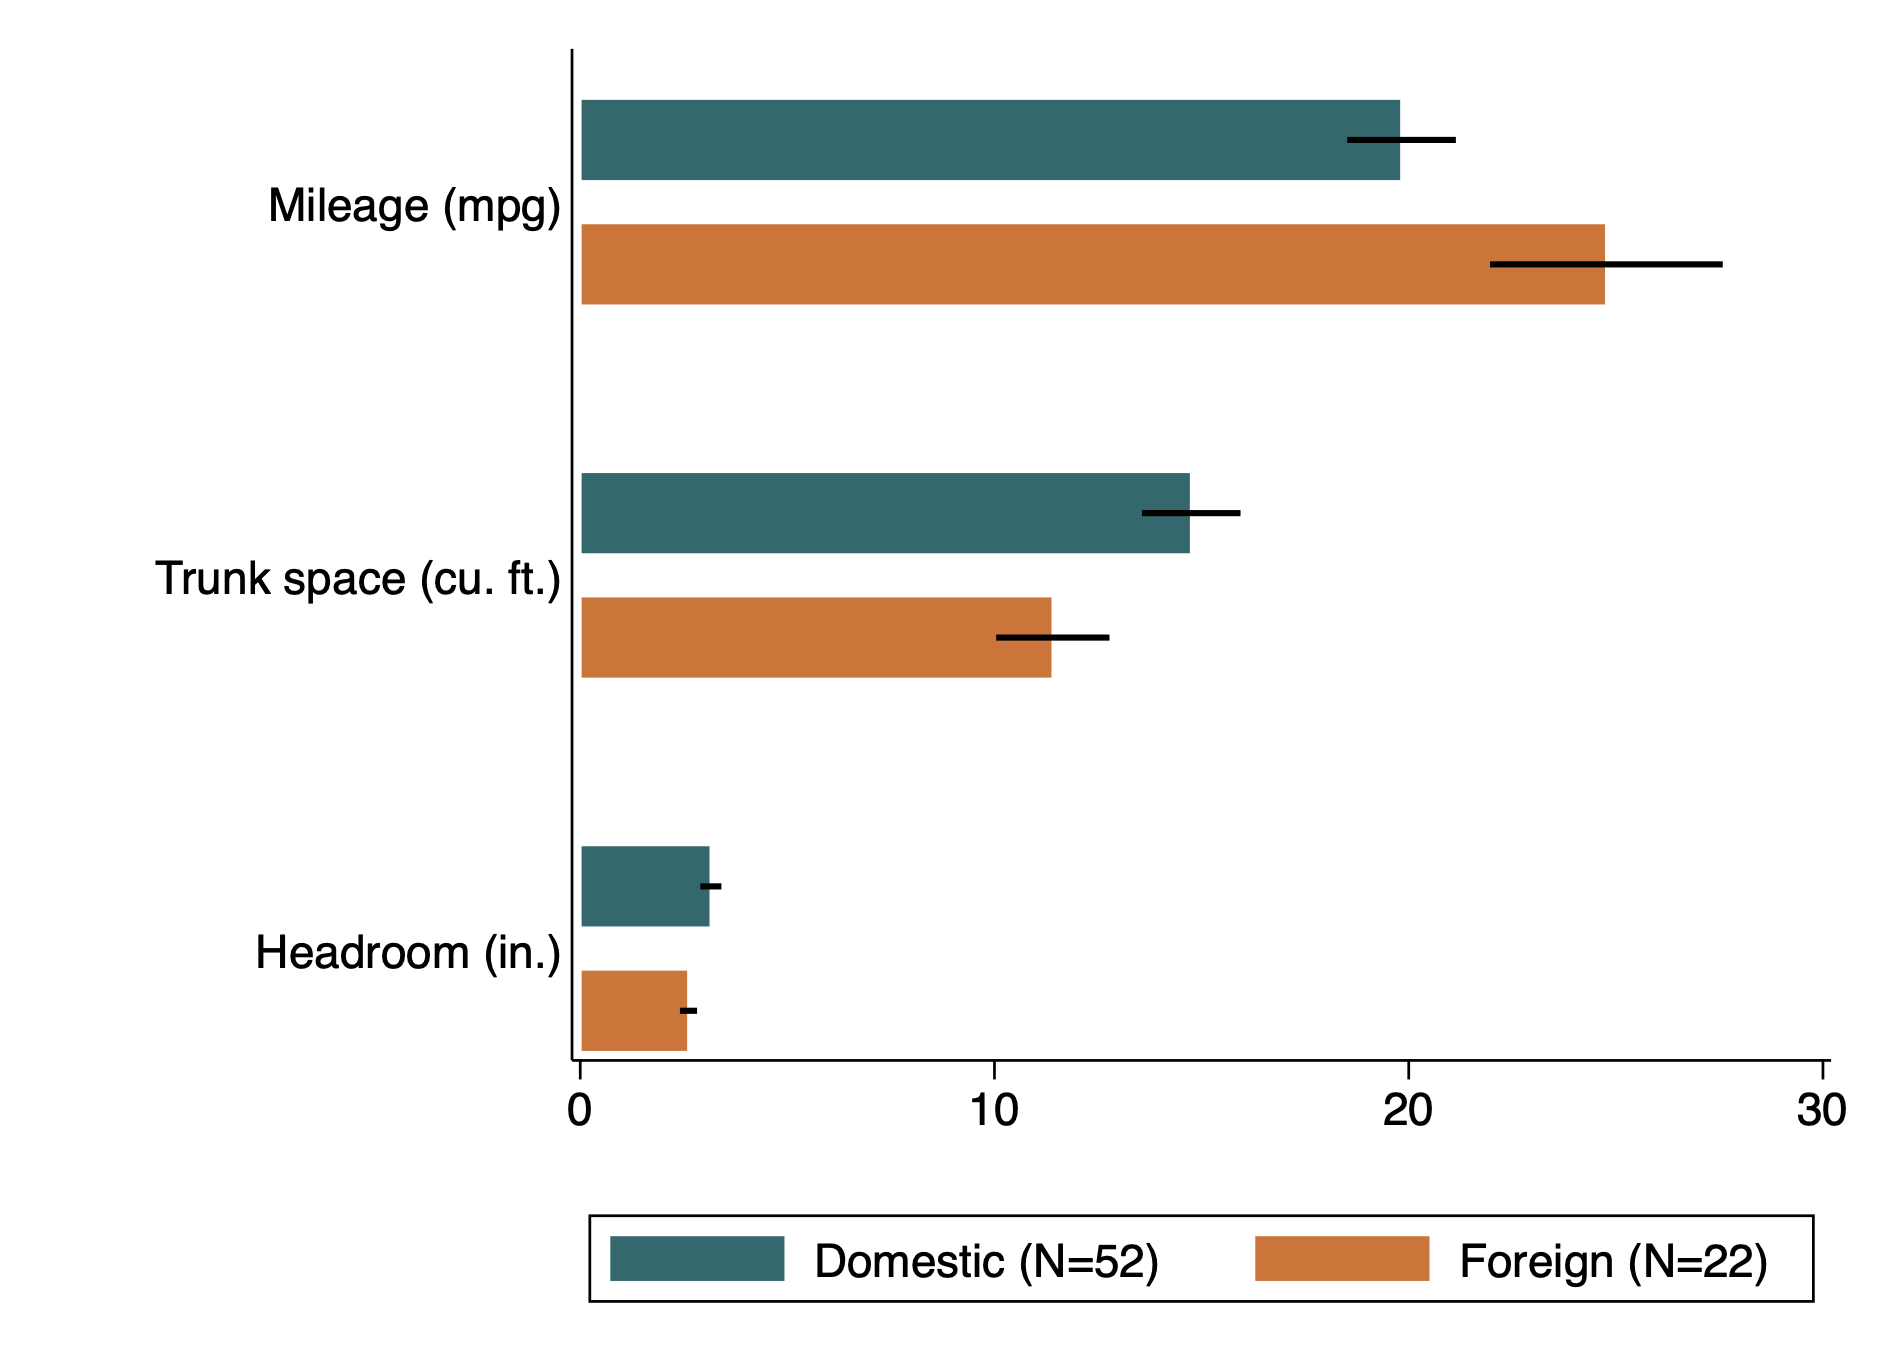
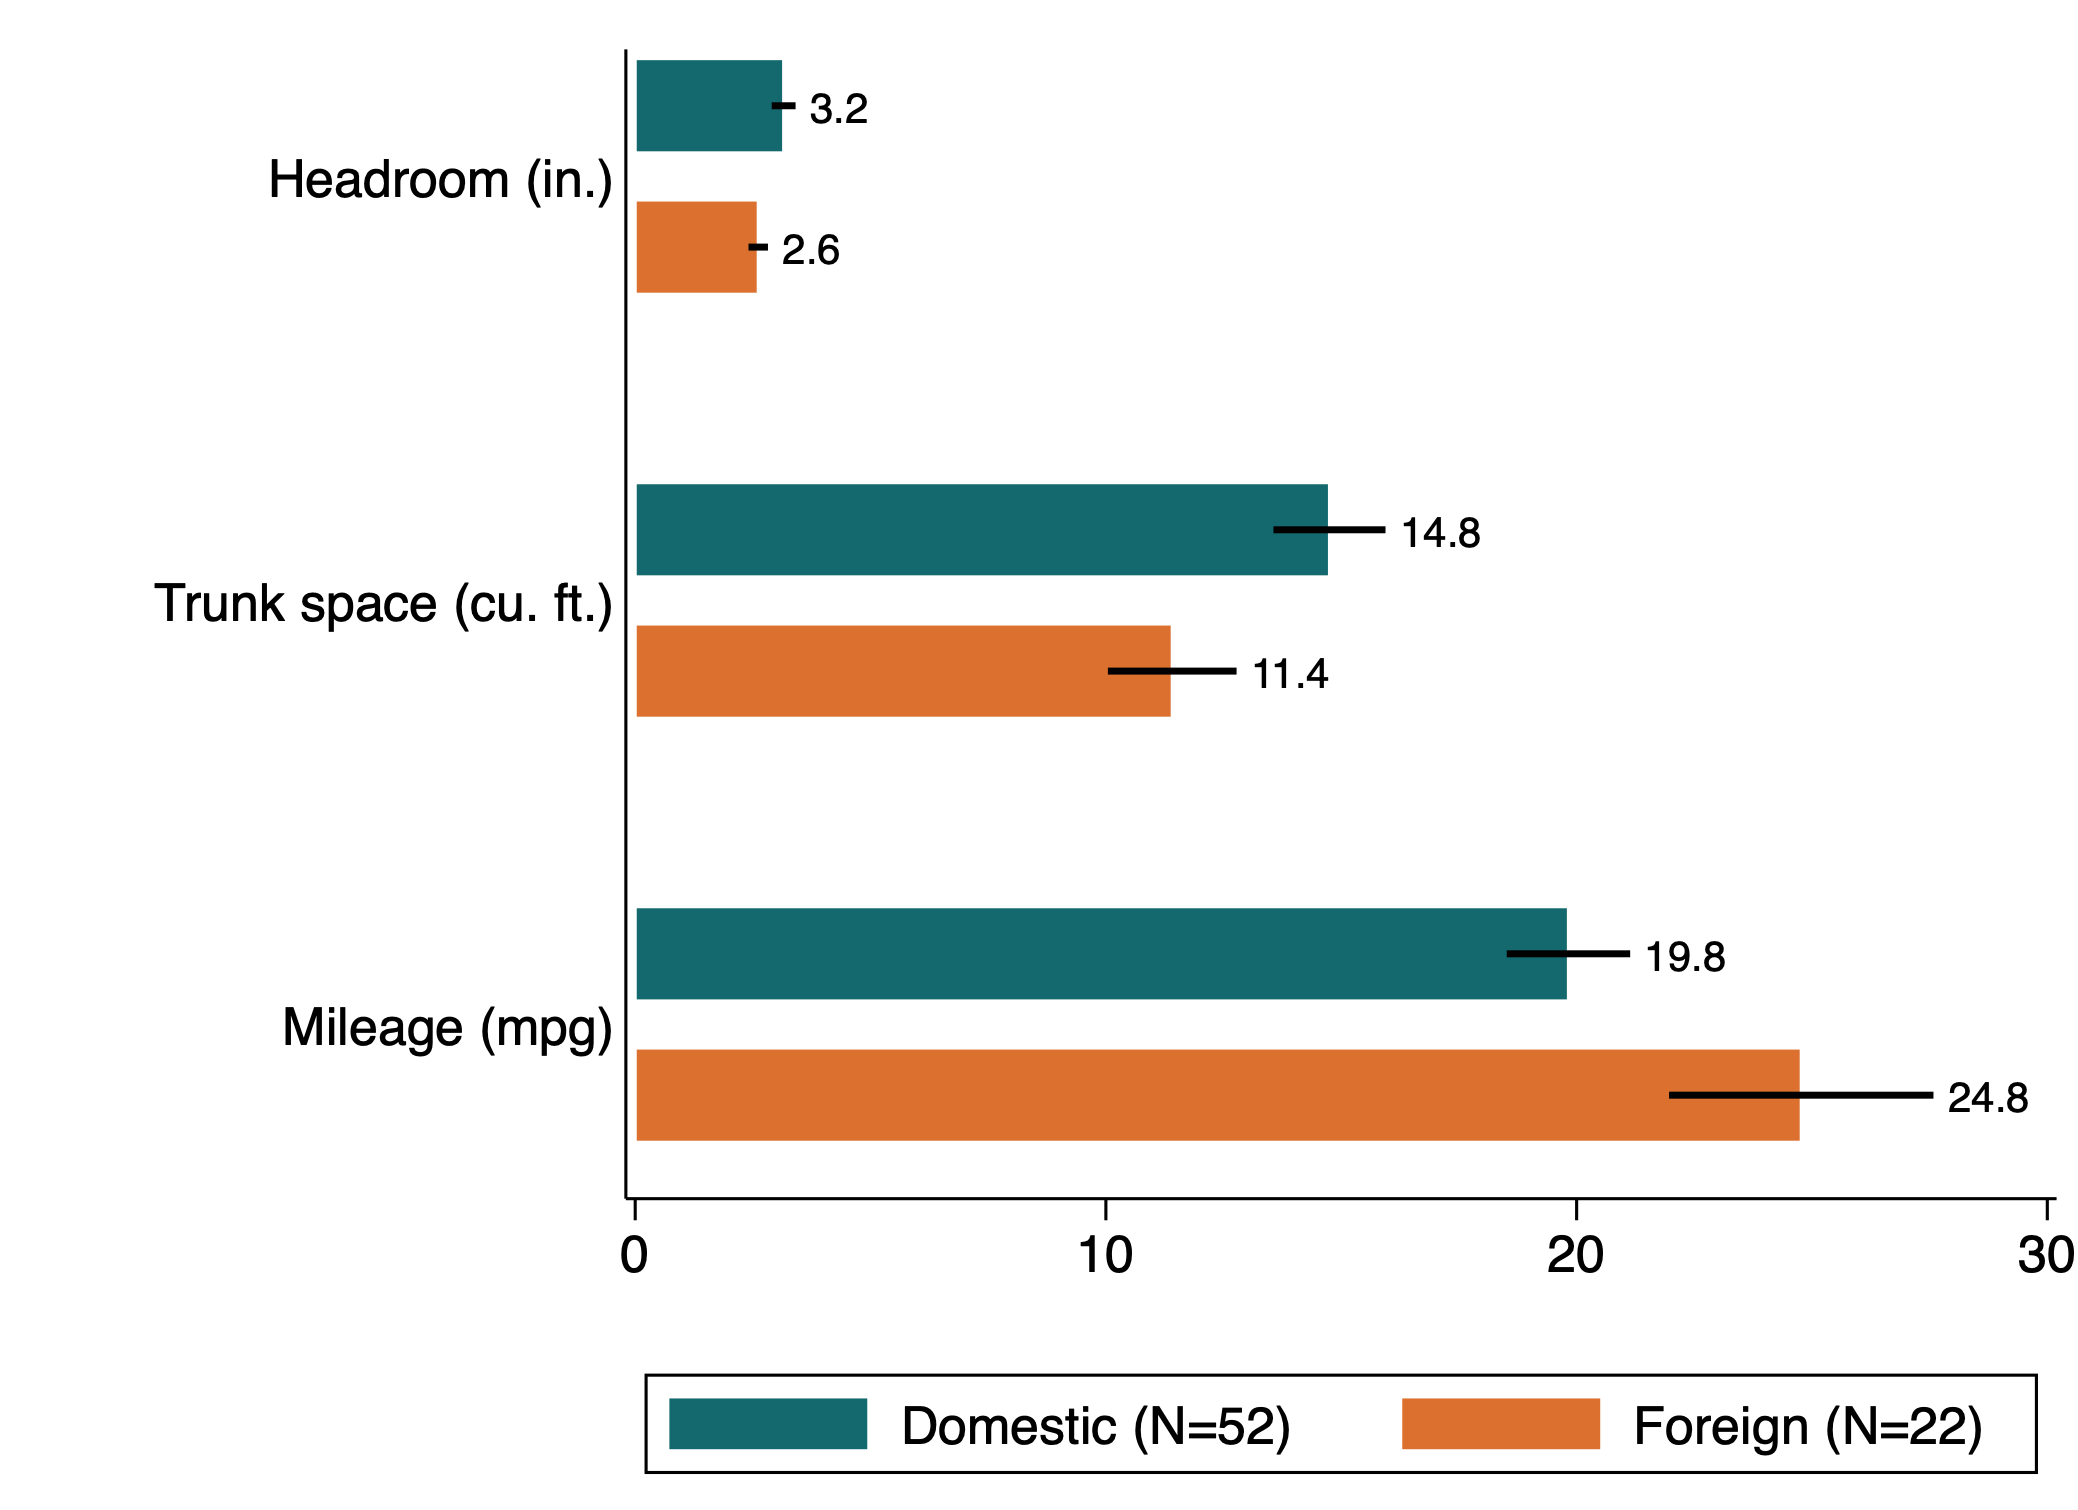
Update specc and forest

Changed region(s): [[0.0617, 0.0307, 1.0, 0.8596], [0.3085, 0.8904, 0.9872, 0.9825]]

diff --git a/_MkDocs/docs/stata-code/forest.md b/_MkDocs/docs/stata-code/forest.md
@@ -5,49 +5,16 @@ Visualizing treatment effects on multiple outcomes with Stata is now easy! Here'
 ![Visualizing treatment effects on multiple outcomes with Stata](/img/forest.png)
 
 ```stata
-global tw_opts ///
-	title(, justification(left) color(black) span pos(11)) ///
-    graphregion(color(white) lc(white) lw(med)) bgcolor(white) ///
-    ylab(,angle(0) nogrid) xtit(,placement(left) justification(left)) ///
-    yscale(noline) xscale(noline) legend(region(lc(none) fc(none)))
-
 sysuse auto.dta , clear
-forest reg mpg headroom trunk = displacement , graph($tw_opts)
+forest reg ///
+  (mpg headroom trunk) ///
+  (rep78 gear_ratio turn) ///
+  , t(foreign) bh
 ```
 
 `forest` visualizes results from multiple regressions on a single independent variable.  The resulting "forest" chart
 shows the effect of a single treatment variable of interest on a set of independent variables.  It can display raw
 coefficients, standardized effect sizes (Cohen's d), or odds ratios (from logistic regressions).  It can also make
 Bonferroni corrections to the confidence intervals for multiple comparisons.
-
-## Syntax
-```stata
-  forest estimator depvars = treatment
-    [if] [in] , [weight(weight)] [controls(varlist)]
-    [graphopts(twoway_options)] [or|d]
-    [bonferroni] [est_options]
-```
-```
-    Syntax            Description
-    -------------------------------------------------------------------------------------
-      estimator       Indicates the estimation command to be utilized.
-      depvars         List the left-hand-side variables.
-      treatment       List the independent variable of interest.
-
-      or|d            Request effect sizes as odds ratios (by exponentiating regression
-                        coefficients where possible) or in terms of Cohen's d (by
-                        standardizing the dependent variables). (Choose only one.)
-      bonferroni      Request confidence intervals calculated with Bonferroni correction
-                        for simultaneous comparisons.  This is calculated by adjusting
-                        the significance level to (100-5/(number of regressions)).
-
-      weight()        Specify weights.
-      controls()      Specify controls.
-      graphopts()     Set any desired options for the graph.
-
-      est_options     Specify any options needed for the estimator.
-    -------------------------------------------------------------------------------------
-```
-
 
 `forest` is available on [SSC](https://ideas.repec.org/c/boc/bocode/s458591.html) and is open for development on [GitHub](https://github.com/bbdaniels/forest). Submit bugs and feature requests [here](https://github.com/bbdaniels/forest/issues). If you like `forest`, be sure to visit my [homepage](http://bbdaniels.github.io) and [Stata boilerplate code](https://gist.github.com/bbdaniels/a3c9f9416f1d16d6f3c6e8cf371f1d89).

diff --git a/_MkDocs/docs/stata-code/specc.md b/_MkDocs/docs/stata-code/specc.md
@@ -1,0 +1,7 @@
+# Specification curves
+
+Making specification curves in Stata is now easy! Here's an example using `specc`:
+
+![Specification curves in Stata](/img/specc.png)
+
+`specc` is available on [SSC](https://econpapers.repec.org/software/bocbocode/s458720.htm) and is open for development on [GitHub](https://github.com/bbdaniels/specc). Submit bugs and feature requests [here](https://github.com/bbdaniels/specc/issues). If you like `specc`, be sure to visit my [homepage](http://bbdaniels.github.io). Thanks to Gray Kimbrough for the [Uncluttered Stata Graph Theme](https://graykimbrough.github.io/uncluttered-stata-graphs/).
